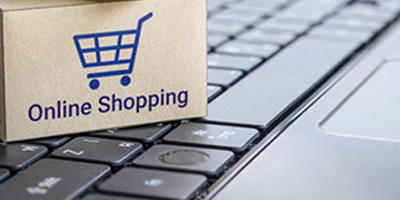
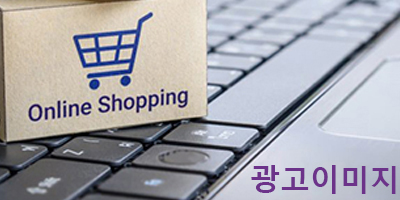
0720_전체작업완료

Changed region(s): [[0.63, 0.81, 0.99, 0.99]]

diff --git a/index.html b/index.html
@@ -101,21 +101,21 @@
                 <div class="tabContents" id="bbsNotice">
                     <table>
                         <tbody>
-                            <tr>
-                                <td>3월 재입고 품목을 알려드립니다.</td>
-                                <td>2020.03.14</td>
+                            <tr id="popupPoint">
+                                <td><a href="#">3월 재입고 품목을 알려드립니다.</a></td>
+                                <td><a href="#">2020.03.14</a></td>
                             </tr>
                             <tr>
-                                <td>반품/환불 규정에 대해 알려드립니다.</td>
-                                <td>2020.03.14</td>
+                                <td><a href="#">반품/환불 규정에 대해 알려드립니다.</a></td>
+                                <td><a href="#">2020.03.14</a></td>
                             </tr>
                             <tr>
-                                <td>S/S 시즌 신규 의류 신상품 안내</td>
-                                <td>2020.03.14</td>
+                                <td><a href="#">S/S 시즌 신규 의류 신상품 안내</a></td>
+                                <td><a href="#">2020.03.14</a></td>
                             </tr>
                             <tr>
-                                <td>신규회원 대상 할인 이벤트 안내</td>
-                                <td>2020.03.14</td>
+                                <td><a href="#">신규회원 대상 할인 이벤트 안내</a></td>
+                                <td><a href="#">2020.03.14</a></td>
                             </tr>
                         </tbody>
                     </table>
@@ -126,9 +126,9 @@
                     <table>
                         <tbody>
                             <tr>
-                                <td><img src="images/contents_gallery1.jpg" alt="갤러리이미지"></td>
-                                <td><img src="images/contents_gallery2.jpg" alt="갤러리이미지"></td>
-                                <td><img src="images/contents_gallery3.jpg" alt="갤러리이미지"></td>
+                                <td><a href="#"><img src="images/contents_gallery1.jpg" alt="갤러리이미지"></a></td>
+                                <td><a href="#"><img src="images/contents_gallery2.jpg" alt="갤러리이미지"></a></td>
+                                <td><a href="#"><img src="images/contents_gallery3.jpg" alt="갤러리이미지"></a></td>
                             </tr>
                         </tbody>
                     </table>
@@ -137,18 +137,59 @@
             </div>
             <!-- div#bbs -->
 
-            <div id="banner"></div>
+            <div id="banner">
+                <a href="#"><img src="images/contents_banner.jpg" alt="광고이미지" width="360"></a>
+            </div>   <!-- div#banner -->
 
-            <div id="shortcut"></div>
+            <div id="shortcut">
+                <a href="#"><img src="images/contents_shortcut.jpg" alt="바로가기이미지" width="360"></a>
+            </div>  <!-- div#shortcut -->
+
         </div>
         <!-- div#contents -->
 
         <footer id="footer" class="flex-container">
+
+            <div id="footerLogo">
+                <a href="#"><img src="images/footerLogo.png" alt="푸터로고"></a>
+            </div>
+
+            <div id="copyright">
+                COPYRIGHTⓒ by JUST Shop. ALL RIGHTS RESERVED
+            </div>   <!-- div#copyright -->
+
+            <div id="snsArea">
+                <a href="#"><img src="images/sns1.jpg" alt="페이스북 바로가기"></a>
+                <a href="#"><img src="images/sns2.jpg" alt="트위터 바로가기"></a>
+                <a href="#"><img src="images/sns3.jpg" alt="인스타그램 바로가기"></a>
+            </div>   <!-- div#snsArea -->
+
         </footer>
         <!-- footer#footer -->
 
     </div>
     <!-- div#wrap -->
 
+
+    <!-- 레이어팝업 시작 -->
+    <div id="layerBG">
+        <div id="layerPopup">
+
+            <h1>이벤트 안내</h1>
+            <p>
+            안녕하세요! JUST쇼핑몰입니다. <br>
+            고객님들의 성원에 보답하는 JUST쇼핑몰이 되고자<br>
+            신규회원 20% 할인 이벤트를 실시하고 있습니다.<br>
+            웹과 모바일 가입회원 대상이며, <br>
+            서비스만족을 위해 꾸준히 노력하겠습니다.<br>
+        </p>
+
+            <div id="closeBtnArea">
+                 <button type="button">닫기</button>
+            </div>   <!-- div#closeBtnArea -->
+
+        </div>  <!-- div#layerPopup -->
+    </div> <!-- div#layerBG -->
+    <!-- 레이어팝업 끝 -->
 </body>
 </html>

diff --git a/style/style.css b/style/style.css
@@ -12,7 +12,7 @@
 
 body {
   background-color: #fff;
-  /* 배경색 */
+  /* 기본배경색 */
 }
 
 a:link {
@@ -43,17 +43,27 @@ ul {
   display: flex;
 }
 
+header,
+nav,
+main,
+footer,
+section,
+article,
+aside {
+  display: block;
+}
+
 /* Reset 끝 */
 
 /* div#wrap 시작 */
 div#wrap {
   width: 1200px;
-  border: 1px solid #000;
+  /* border: 1px solid #000; */
   margin: 0 auto;
 }
 
 div#wrap > * {
-  border: 1px solid #000;
+  /* border: 1px solid #000; */
 }
 
 /* div#wrap 끝 */
@@ -119,7 +129,7 @@ header#header {
 /* div#slide */
 div#slide {
   height: 300px;
-  border: 1px solid #000;
+  /* border: 1px solid #000; */
   overflow: hidden;
 }
 
@@ -151,14 +161,16 @@ div#slide {
 /* div#slide */
 
 /* div#contents */
+
+/* div#bbs시작 */
 div#contents {
   height: 200px;
-  border: 1px solid #000;
+  /* border: 1px solid #000; */
 }
 
 #contents > div {
   padding: 4px;
-  border: 1px solid #000;
+  /* border: 1px solid #000; */
   margin: 4px;
 
   flex: 1;
@@ -190,6 +202,9 @@ div#contents {
 #contents #bbs div#bbsNotice {
   /* display: none; */
 }
+#contents #bbs div#bbsNotice td {
+  padding-left: 6px;
+}
 #contents #bbs div#bbsGallery {
   display: none;
 }
@@ -204,16 +219,93 @@ div#contents {
   /* border: 1px solid #08f; */
 }
 #contents #bbs table td {
-  /* line-height: 32px; */
   /* border: 1px solid #08f; */
 }
+/* div#bbs끝 */
+
+/* div#banner, div#shortcut시작 */
+div#banner {
+  text-align: center;
+}
+div#shortcut {
+  text-align: center;
+}
+/* div#banner, div#shortcut 끝 */
 
 /* div#contents */
 
 /* footer#footer */
 footer#footer {
   height: 100px;
-  border: 1px solid #000;
+  /* border: 1px solid #000; */
+}
+footer > div {
+  height: 200px;
+  /* border: 1px solid #000; */
+  height: 100px;
+  line-height: 100px;
+}
+
+#footer div#footerLogo {
+  width: 200px;
+}
+#footer div#copyright {
+  font-size: 20px;
+  text-align: center;
+
+  flex: 1;
+}
+#footer div#snsArea {
+  width: 200px;
+  text-align: center;
 }
 
 /* footer#footer */
+
+/* 레이어팝업 시작 */
+tr#popupPoint {
+  cursor: pointer;
+}
+
+div#layerBG {
+  width: 100%;
+  height: 100%;
+
+  background-color: rgba(255, 255, 255, 0);
+
+  display: none;
+  position: fixed;
+  left: 0;
+  top: 0;
+}
+
+div#layerPopup {
+  padding: 20px 60px;
+  border: 4px solid #aaa;
+  border-radius: 10px;
+  background-color: #fff;
+  position: absolute;
+  left: 50%;
+  top: 50%;
+  transform: translate(-50%, -50%);
+}
+
+#layerBG h1 {
+  margin: 20px;
+}
+#layerBG p {
+  font-size: 1.2em;
+  line-height: 1.8em;
+}
+#closeBtnArea {
+  text-align: right;
+  margin: 20px 20px 10px;
+}
+#layerBG button {
+  font-size: 20px;
+  font-weight: bold;
+  padding: 2px 20px;
+
+  cursor: pointer;
+}
+/* 레이어팝업 끝 */

diff --git a/script/script.js b/script/script.js
@@ -46,4 +46,17 @@ $(function(){
 
     // 멀티탭 끝
 
+
+    // 레이어팝업 시작
+    $("tr#popupPoint").click(function(){
+        $("div#layerBG").css({"display": "block"});
+    });
+            // 레이어팝업 나타나기
+
+    $("div#closeBtnArea>button").click(function(){
+        $("div#layerBG").css({"display": "none"});
+    });
+            // 레이어팝업 닫기
+    // 레이어팝업 끝
+
 });
